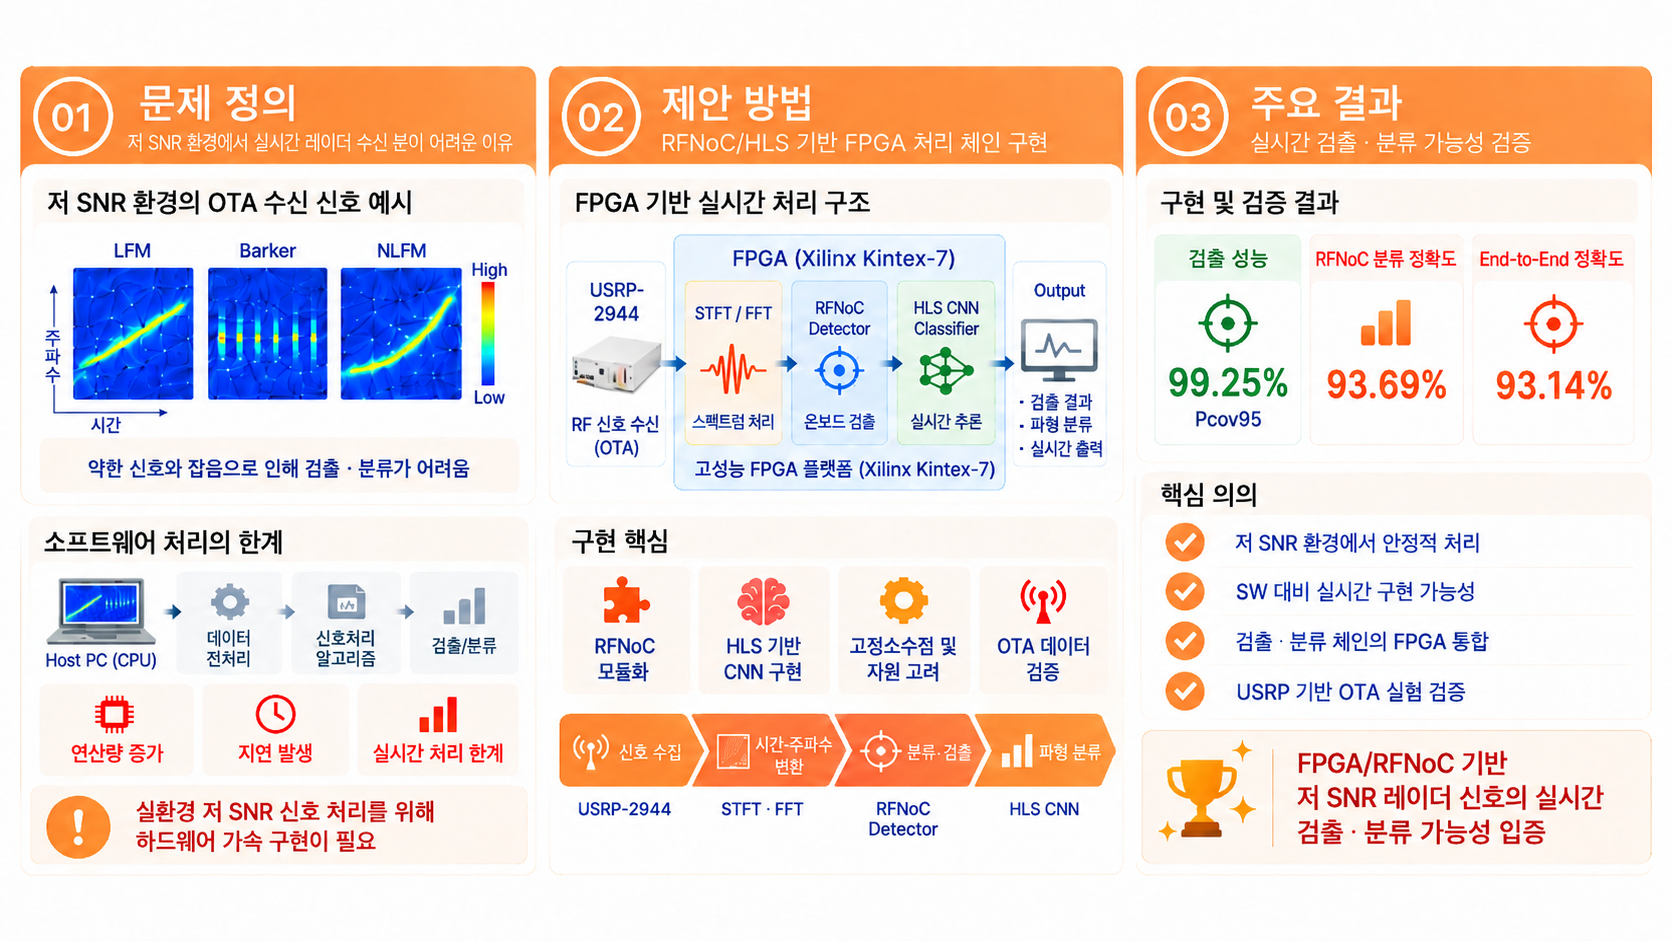
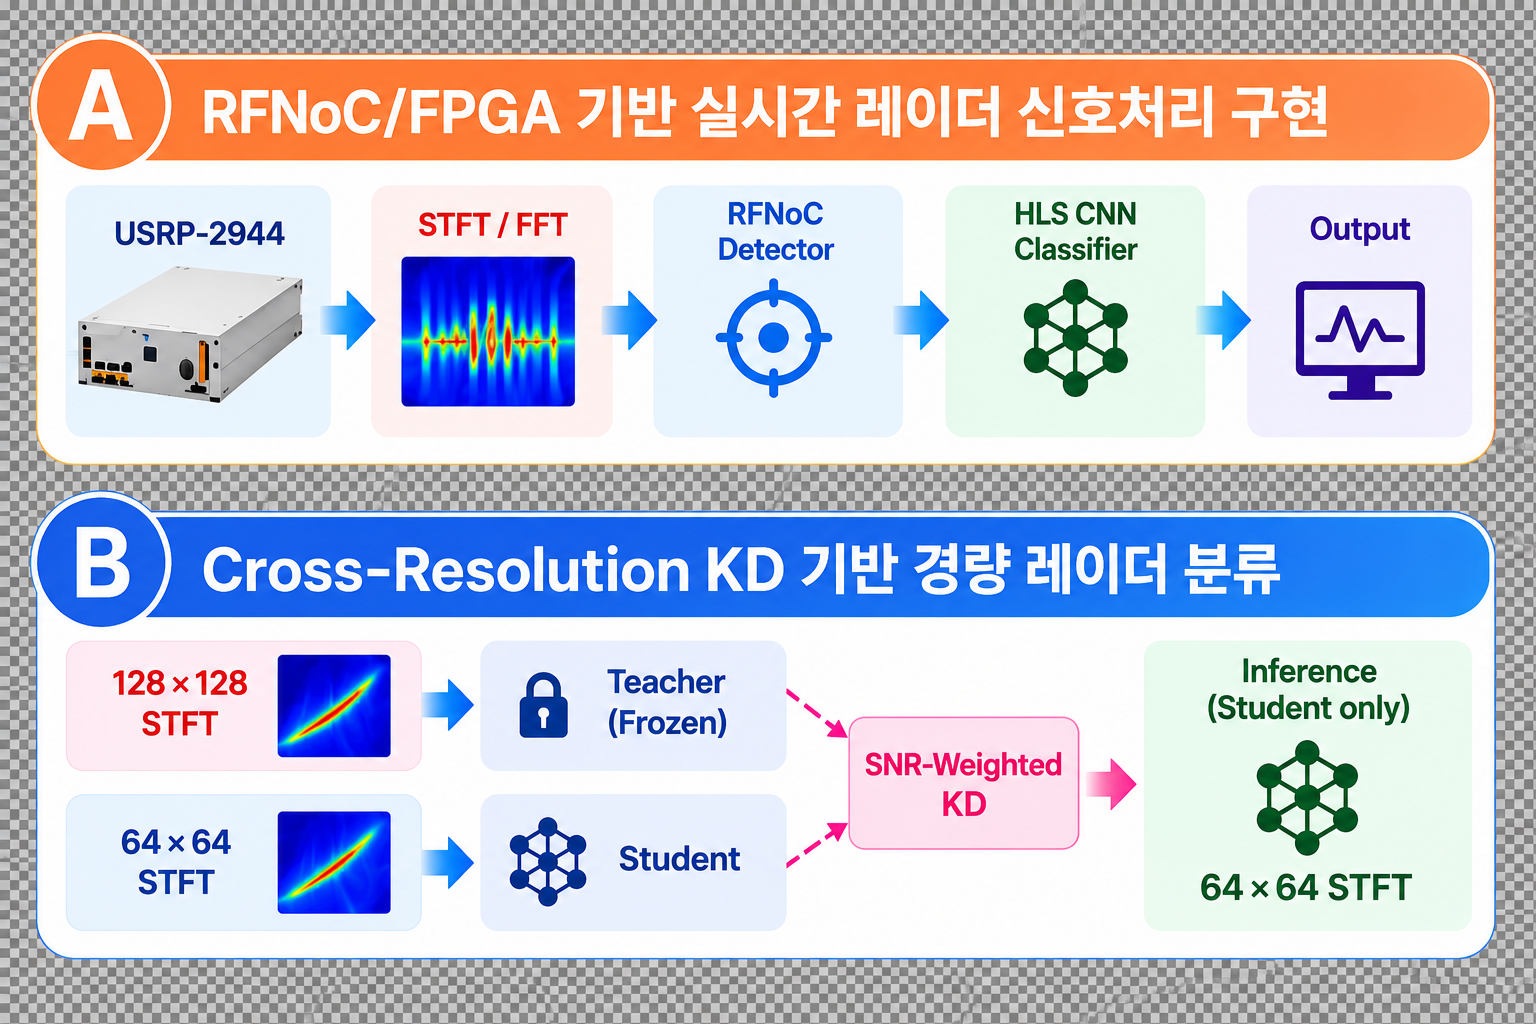
Update FPGA project imagery and site preview

diff --git a/content/projects/rfnoc-fpga/index.md b/content/projects/rfnoc-fpga/index.md
@@ -23,9 +23,12 @@ publication_refs:
   - /publications/rfnoc-fpga-lpi-detection/
 summary: "저 SNR 레이더 신호의 실시간 처리를 위해 RFNoC/FPGA 검출·분류 체인을 구현하고, Cross-Resolution KD로 경량 분류 모델을 설계한 연구입니다."
 image:
-  filename: figures/preview.png
+  filename: figures/representative.png
   alt_text: "저 SNR 레이더 인식을 위한 FPGA 실시간 구현과 경량 모델 설계 연구 개요"
   caption: "※ 본 이미지는 연구의 전체 흐름을 이해하기 쉽게 설명하기 위해 AI로 제작한 개념도이며, 실제 실험 결과 이미지는 아닙니다."
+preview:
+  filename: figures/preview.png
+  alt_text: "RFNoC/FPGA 기반 실시간 레이더 신호처리와 Cross-Resolution KD 기반 경량 분류"
 links: []
 tags:
   - RFNoC
